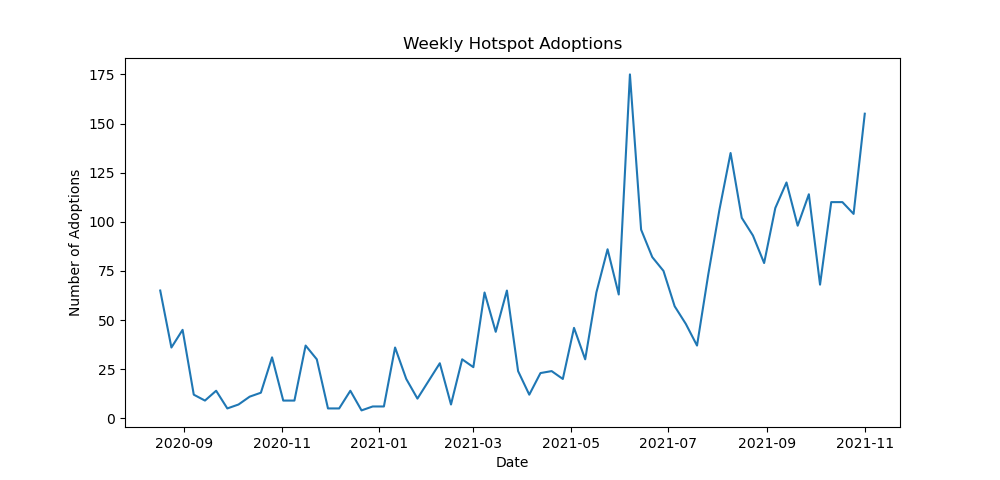
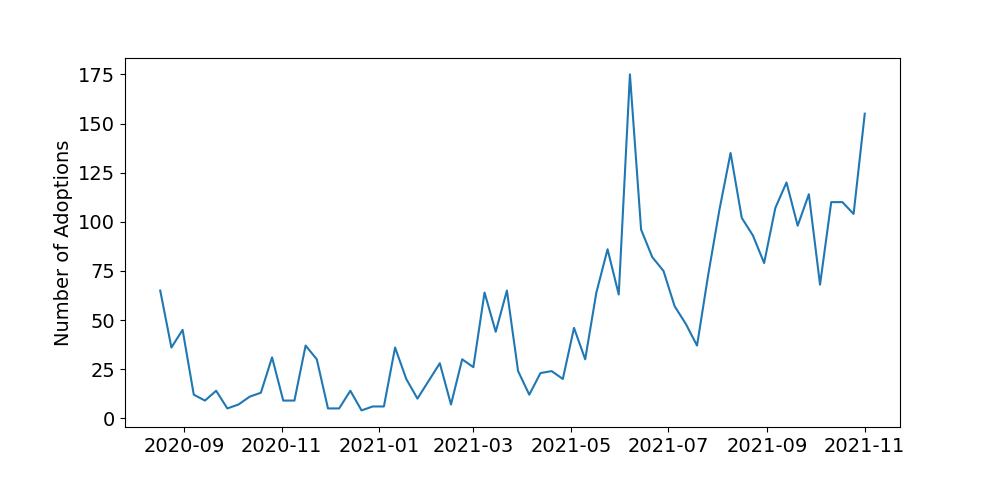
Adjusted the formatting of the plots.

diff --git a/bass_model.py b/bass_model.py
@@ -23,10 +23,13 @@ adoptions_test = adoptions_cumulative[64:125]
 
 # We compute the first difference of the cumulative sales to explore the amount of new adoptions per week.
 new_adoptions = adoptions_train.HotspotsWeek.diff().iloc[1:]
+
+plt.rcParams['font.size'] = 14
+
 plt.figure().set_figwidth(10)
 plt.plot(adoptions_train.Date.iloc[1:], new_adoptions)
-plt.title("Weekly Hotspot Adoptions")
-plt.xlabel("Date")
+#plt.title("Weekly Hotspot Adoptions")
+#plt.xlabel("Date")
 plt.ylabel("Number of Adoptions")
 plt.savefig('plots/weekly_hotspot_adoptions')
 plt.clf()
@@ -34,8 +37,8 @@ plt.clf()
 # We also plot the chart with the amount of cumulative adoptions every week,
 plt.figure().set_figwidth(10)
 plt.plot(adoptions_train.Date, adoptions_train.HotspotsWeek)
-plt.title("Weekly Hotspot Adoptions (Cumulative)")
-plt.xlabel("Date")
+#plt.title("Weekly Hotspot Adoptions (Cumulative)")
+#plt.xlabel("Date")
 plt.ylabel("Number of Adoptions")
 plt.savefig('plots/weekly_hotspot_adoptions_cumulative')
 plt.clf()
@@ -92,8 +95,8 @@ adoptions = bass_model(p,q,m,len(adoptions_train))
 plt.figure().set_figwidth(10)
 plt.plot(adoptions_train.Date, adoptions)
 plt.plot(adoptions_train.Date.iloc[1:], new_adoptions)
-plt.title("Bass Model Adoptions vs Actual Adoptions")
-plt.xlabel("Date")
+#plt.title("Bass Model Adoptions vs Actual Adoptions")
+#plt.xlabel("Date")
 plt.ylabel("Number of Adoptions")
 plt.savefig('plots/bass_model_adoptions_vs_actual_adoptions')
 plt.clf()
@@ -112,9 +115,10 @@ plt.plot(adoptions_cumulative.Date, adoptions_pred_cumul)
 # Also plot the adoption_train dataset:
 plt.plot(adoptions_train.Date, adoptions_train.HotspotsWeek)
 
-plt.title("Cumulative Bass Model Adoptions vs Actual Cumulative Adoptions")
-plt.xlabel("Date")
+#plt.title("Cumulative Bass Model Adoptions vs Actual Cumulative Adoptions")
+#plt.xlabel("Date")
 plt.ylabel("Number of Adoptions")
+plt.xticks(["2020-10", "2021-04", "2021-10", "2022-04", "2022-10"])
 plt.savefig('plots/cumulative_bass_model_adoptions_vs_actual_cumulative_adoptions')
 
 plt.clf()
@@ -126,9 +130,10 @@ plt.plot(adoptions_cumulative.Date, adoptions_pred_cumul)
 plt.plot(adoptions_train.Date, adoptions_train.HotspotsWeek)
 plt.plot(adoptions_test.Date, adoptions_test.HotspotsWeek)
 
-plt.title("Predicted Cumulative Weekly Hotspot Adoptions")
-plt.xlabel("Date")
+#plt.title("Predicted Cumulative Weekly Hotspot Adoptions")
+#plt.xlabel("Date")
 plt.ylabel("Number of Adoptions")
+plt.xticks(["2020-10", "2021-04", "2021-10", "2022-04", "2022-10"])
 plt.savefig('plots/predicted_cumulative_weekly_hotspot_adoptions')
 
 plt.clf()
